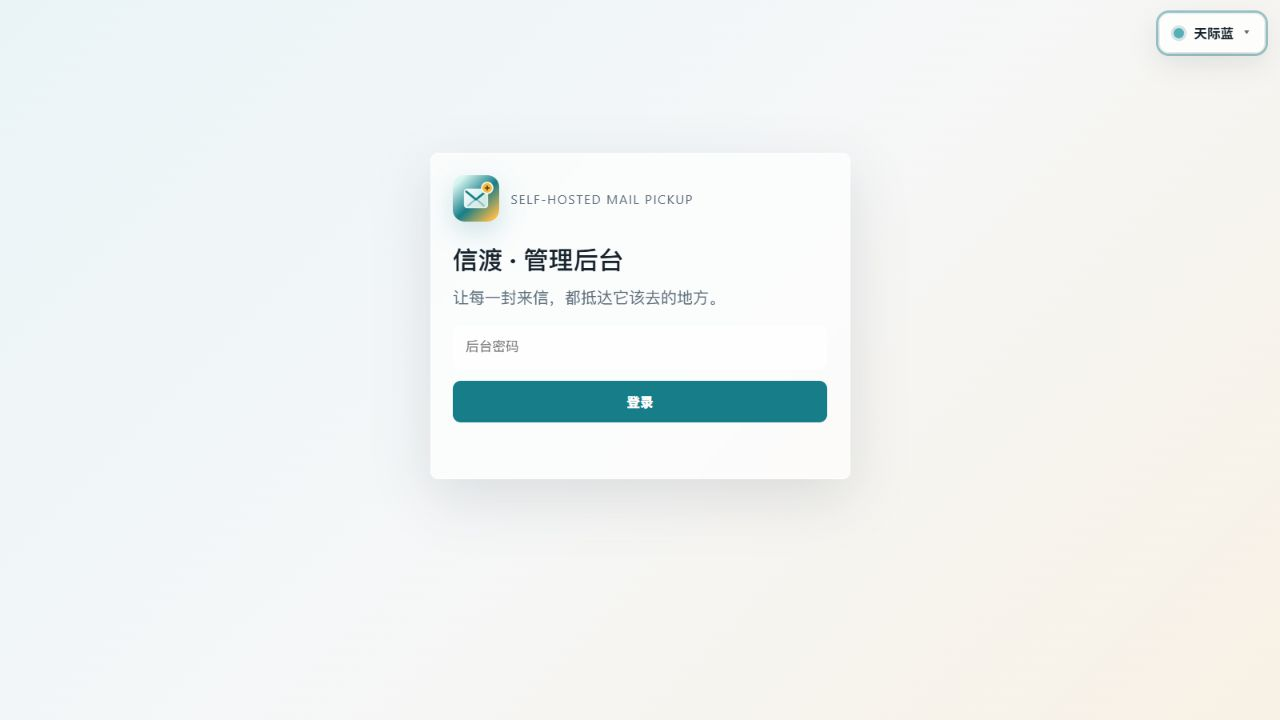
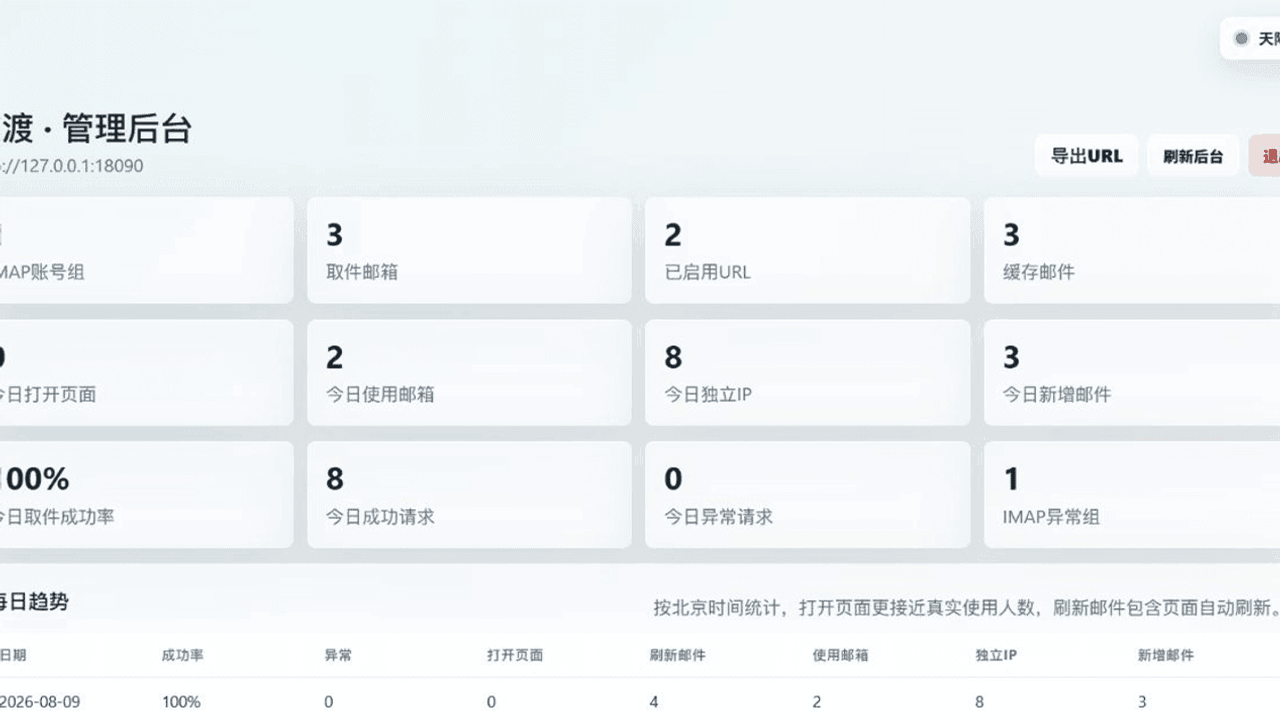
docs: show the authenticated product experience

diff --git a/docs/发布审计.md b/docs/发布审计.md
@@ -3,6 +3,12 @@
 本页记录公开版本的可复核门禁，不记录秘密原文。最终在线结果以 GitHub Actions 和
 仓库 Security 页面为准。
 
+## 2026-08-09 展示更新
+
+- 主页项目卡与 1280×640 社交封面改为登录后的管理后台，README 另保留 1280×720 后台实景和登录入口。
+- 预览通过隔离的临时 SQLite 数据库生成，只含 `example.test`、本机地址和 RFC 5737 文档地址；未连接真实 IMAP，也未显示完整取件 token。
+- 新增图片需继续通过尺寸、体积、元数据、OCR 与秘密扫描门禁后方可发布。
+
 ## 1.0.0 范围
 
 - 源码、测试、示例、文档、图片和图片元数据；

diff --git a/README_EN.md b/README_EN.md
@@ -10,6 +10,12 @@
 
 Mail Ferry turns IMAP mailboxes into independent, revocable pickup links. It is self-hosted on a workstation or server and includes a pickup page, an admin dashboard, caching, health probes, and a read-only API—all with the Python standard library.
 
+## Interface tour
+
+![Mail Ferry authenticated dashboard and live operational metrics](docs/images/dashboard.png)
+
+![Mail Ferry admin sign-in](docs/images/login.png)
+
 ## At a glance
 
 - **Independent pickup links:** each recipient gets a cryptographically random URL that can be disabled or rotated on its own.

diff --git a/README.md b/README.md
@@ -10,6 +10,12 @@
 
 把 IMAP 邮箱化成一条条独立、可撤销的取件链接。信渡自托管在你的电脑或服务器上，提供取件页、管理后台、缓存、健康检查和只读 API；运行时只依赖 Python 标准库。
 
+## 界面实景
+
+![信渡登录后的管理后台与运行统计](docs/images/dashboard.png)
+
+![信渡管理后台登录入口](docs/images/login.png)
+
 ## 一眼看懂
 
 - **独立取件链接**：每个收件邮箱拥有密码学随机 URL，可停用或单独重置。

diff --git a/CHANGELOG.md b/CHANGELOG.md
@@ -1,5 +1,10 @@
 # 更新记录 / Changelog
 
+## Unreleased
+
+- 主页与社交预览改为登录后的真实管理后台；README 同时展示内部工作状态与登录入口，所有画面仅使用合成数据。
+- Replaced the profile and social preview with the authenticated dashboard, while keeping the sign-in view as a secondary README image. All visible data is synthetic.
+
 ## 1.0.0 - 2026-08-08
 
 - 以“信渡 / Mail Ferry”发布首个公开版本。
